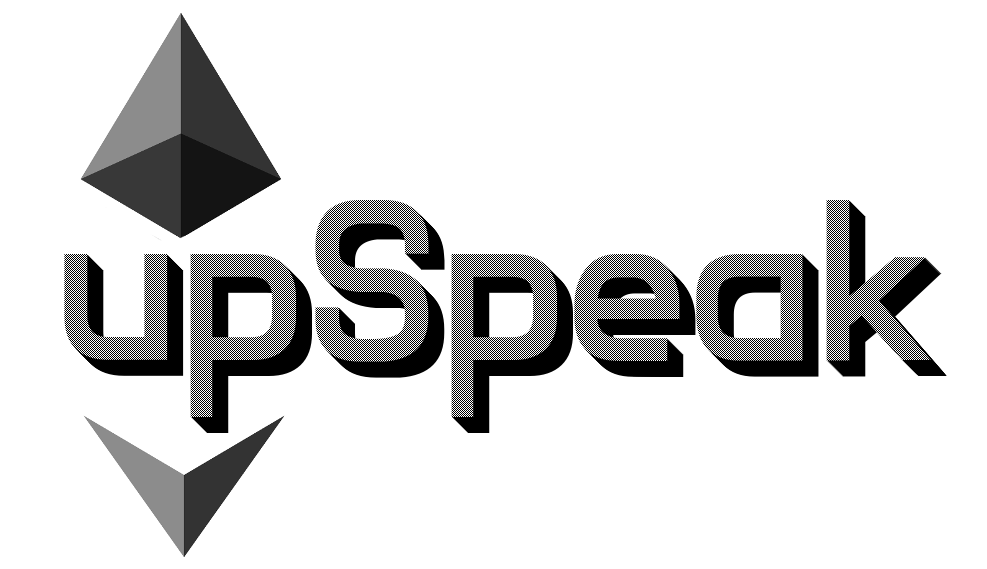
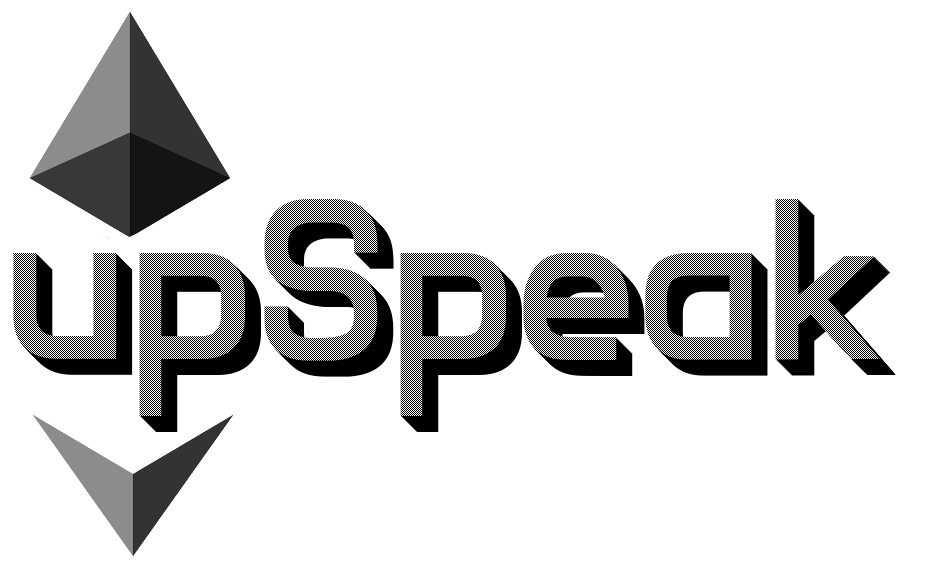
updated style

Changed region(s): [[0.0, 0.0299, 0.9605, 0.9877]]

diff --git a/src/components/Main.js b/src/components/Main.js
@@ -8,7 +8,7 @@ class Main extends Component {
     return (
       <div className="container-fluid mt-5">
         <div className="row">
-          <main role="main" className="col-lg-12 ml-auto mr-auto" style={{ maxWidth: '500px' }}>
+          <main role="main" className="col-lg-12 ml-auto mr-auto" style={{ maxWidth: '504px', background: '#DFE5E8' }}>
             <div className="content mr-auto ml-auto">
               <p>&nbsp;</p>
                 <form onSubmit={(event) => {
@@ -17,7 +17,7 @@ class Main extends Component {
                   this.props.createPost(content)
                 }}>
                 <div className="form-group mr-sm-2">
-                <img src={logo} width="494" height="285" alt="upSpeak" /><br /><br /><br /><br />
+                <img src={logo} width="496" height="301" alt="upSpeak" /><br /><br /><br />
                   <input
                     id="postContent"
                     type="text"
@@ -47,7 +47,7 @@ class Main extends Component {
                       </li>
                       <li key={key} className="list-group-item py-2">
                         <small className="float-left mt-1 text-muted">
-                          UP's: {window.web3.utils.fromWei(post.tipAmount.toString(), 'Ether')} ETH
+                          <strong>up's</strong>: [{window.web3.utils.fromWei(post.tipAmount.toString(), 'Ether')} ETH]
                         </small>
                         <button
                           className="btn btn-link btn-sm float-right pt-0"
@@ -58,7 +58,7 @@ class Main extends Component {
                             this.props.tipPost(event.target.name, tipAmount)
                           }}
                         >
-                          UPit! 0.1 ETH
+                          <strong>up-it!</strong> [0.1 ETH]
                         </button>
                       </li>
                     </ul>

diff --git a/src/components/App.js b/src/components/App.js
@@ -46,7 +46,7 @@ class App extends Component {
           posts: [...this.state.posts, post]
         })
       }
-      // Sort posts. Show highest tipped posts first
+      // Sort posts. Show posts with most up's first
       this.setState({
         posts: this.state.posts.sort((a,b) => b.tipAmount - a.tipAmount )
       })
